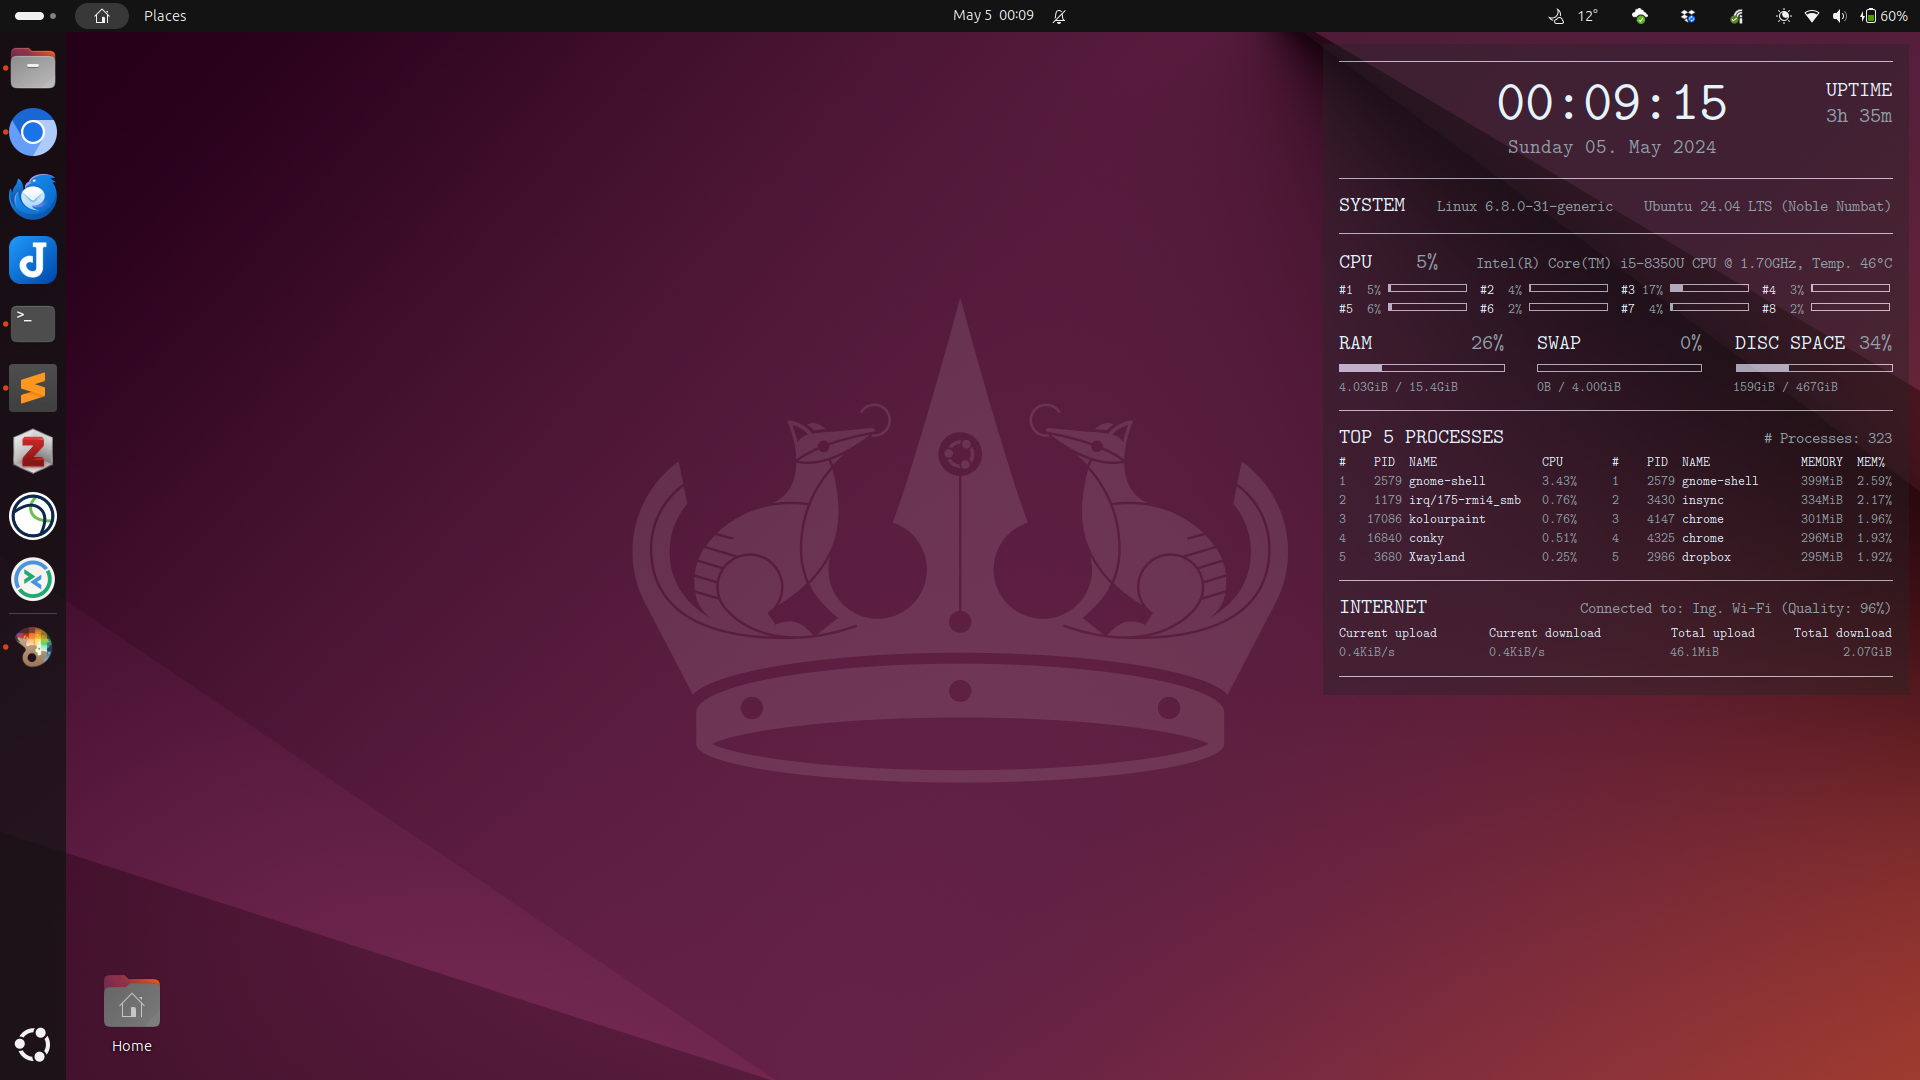
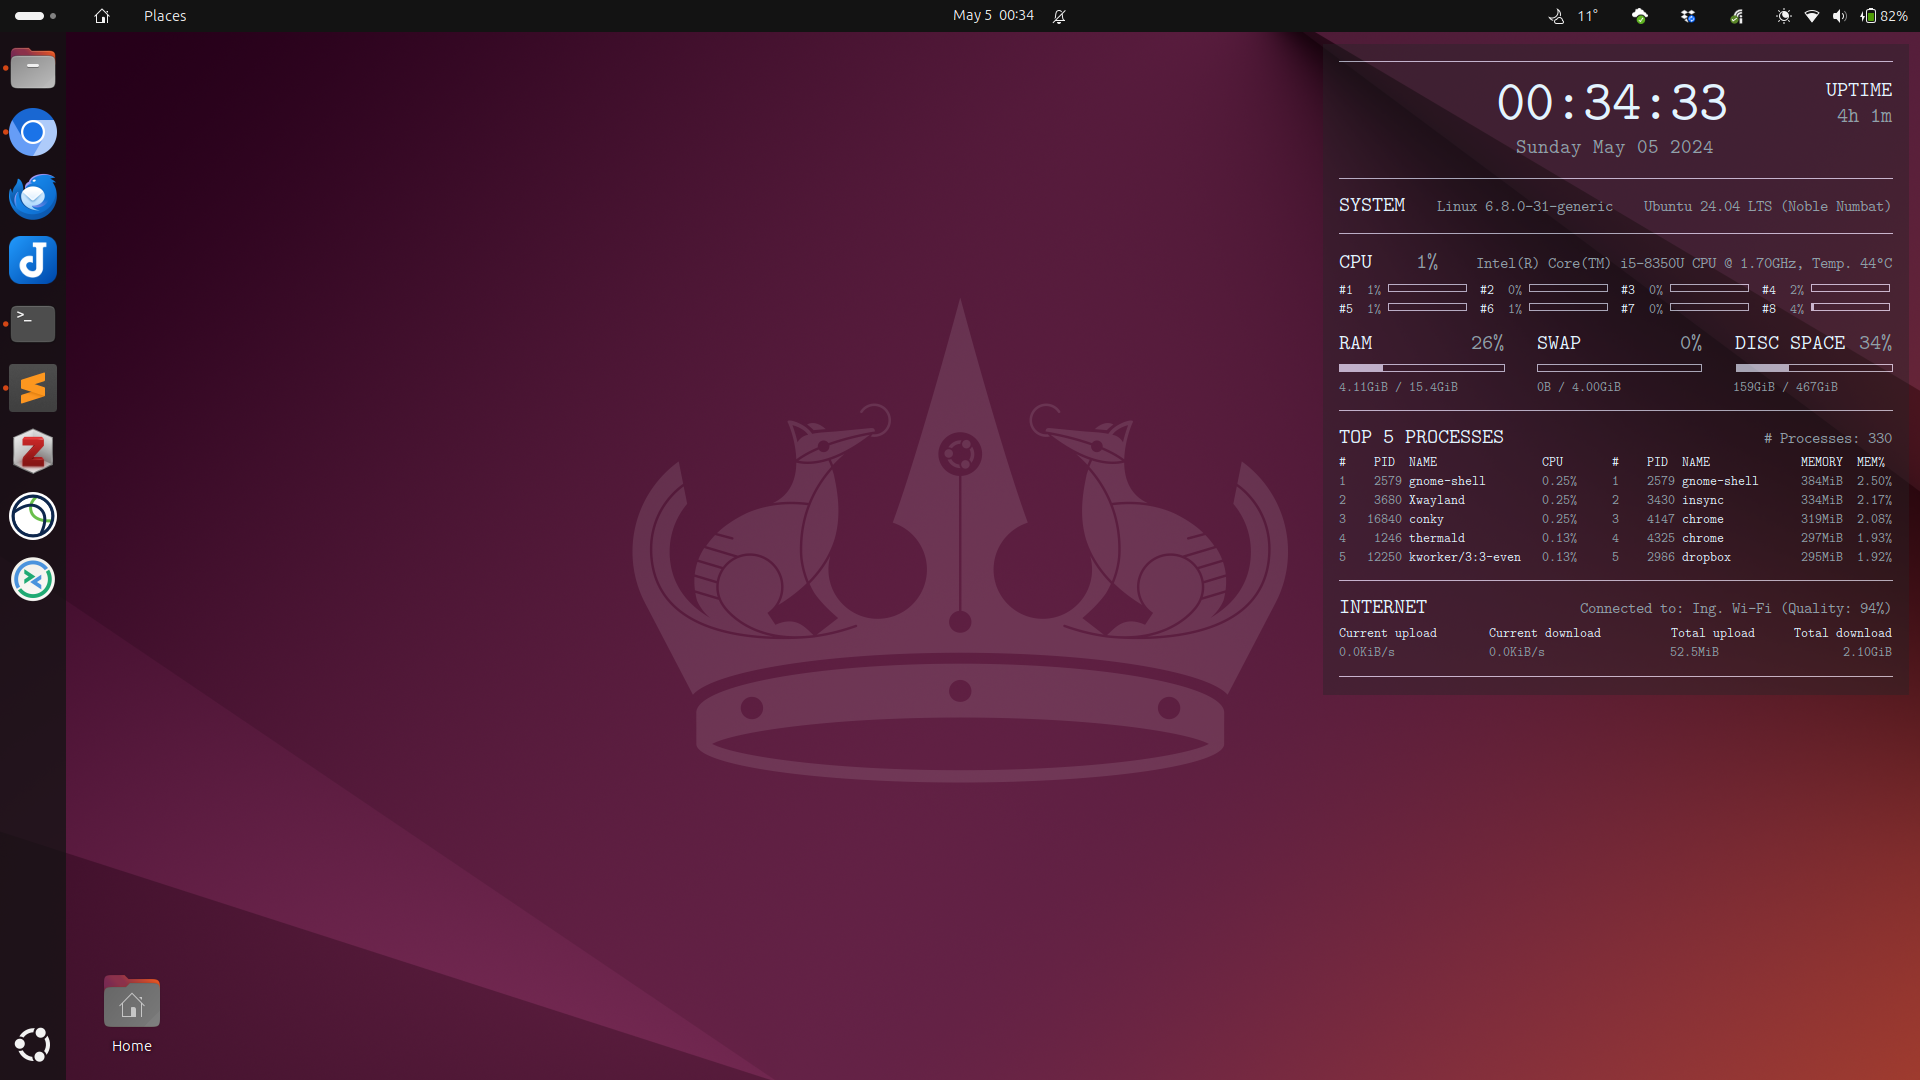
Fixing date format

diff --git a/README.md b/README.md
@@ -1,1 +1,3 @@
+https://wiki.archlinux.org/title/conky
+
 ![conky](conky.png)
